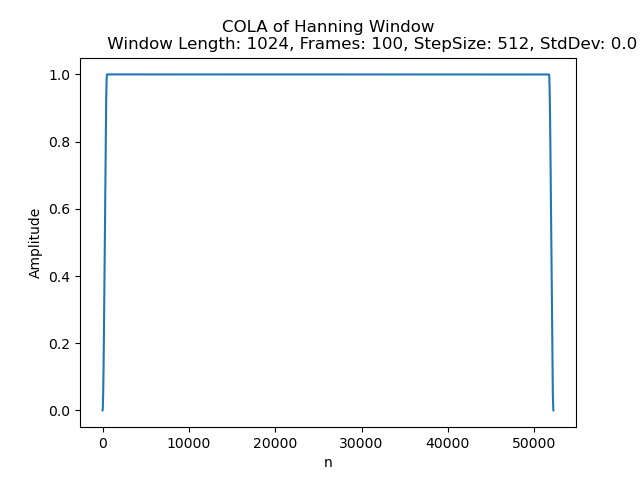
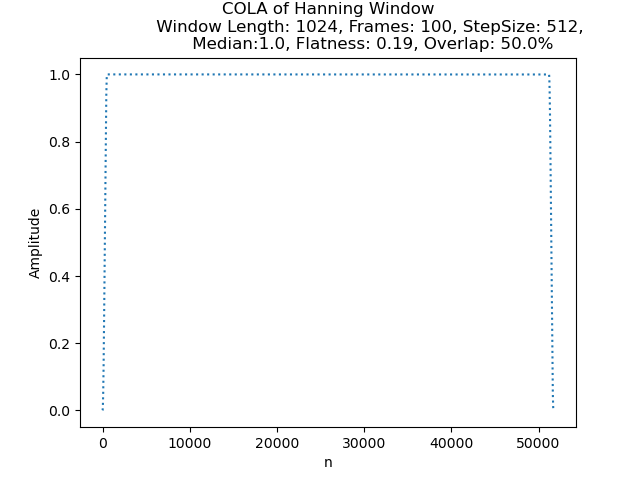
changed frames to start at 1 in COLA.py

diff --git a/scripts/COLA.py b/scripts/COLA.py
@@ -40,8 +40,8 @@ def isCOLA(window, frames, stepSize):
 def COLA_info(window, frames, stepSize):
 
     # COLA sum
-    data = [0 for i in range(len(window) + frames*stepSize)]
-    for m in range(0,frames+1):
+    data = [0 for i in range(len(window) + (frames-1)*stepSize)]
+    for m in range(0, frames):
         frame_index = m*stepSize
         for j in range(len(window)):
             data[frame_index+j] += window[j]
@@ -54,7 +54,7 @@ def COLA_info(window, frames, stepSize):
     avg_val = sum(data)/len(data)
     for i in range(len(data)):
         flatness += math.pow((data[i]-avg_val), 2)
-    flatness = round(math.sqrt(flatness)/frames, 2)
+    flatness = round(math.sqrt(flatness)/(frames), 2)
 
     return (data, median, flatness)
 
